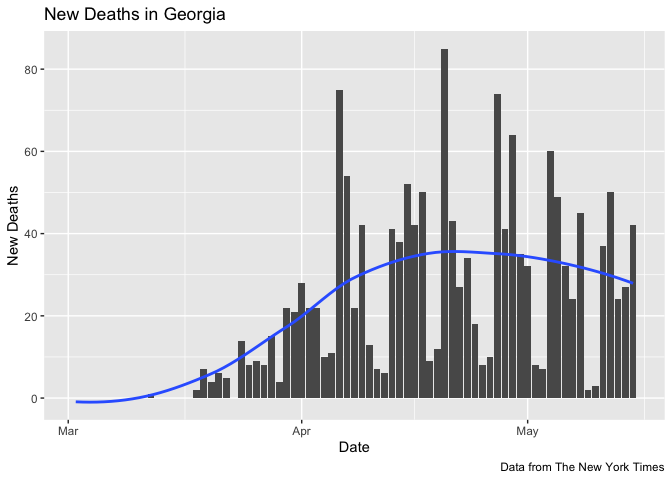
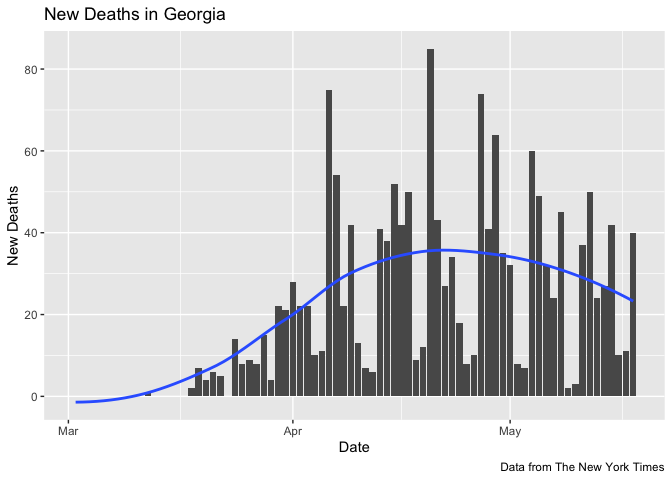
Adjusted legend positions

diff --git a/Metro_Atlanta_COVID.md b/Metro_Atlanta_COVID.md
@@ -16,7 +16,7 @@ It’s hard to know how to interpret these numbers since there are major
 known unknowns. Neither confirmed cases nor deaths can be said to be
 reliable counts of the true numbers.
 
-Data current as of May 16,
+Data current as of May 19,
 2020.
 
 # Metro Atlanta
